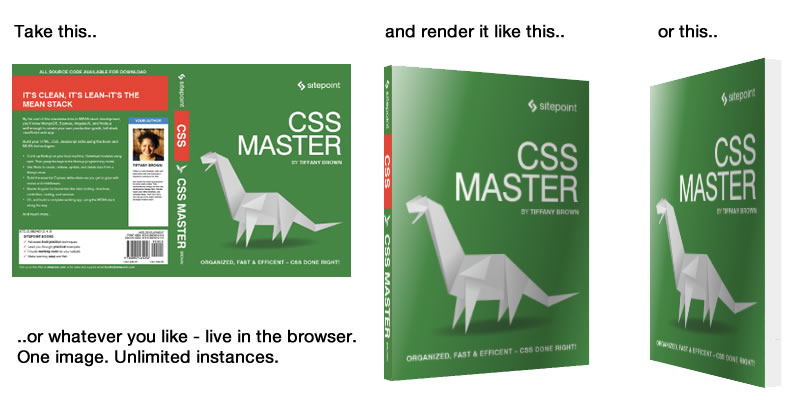
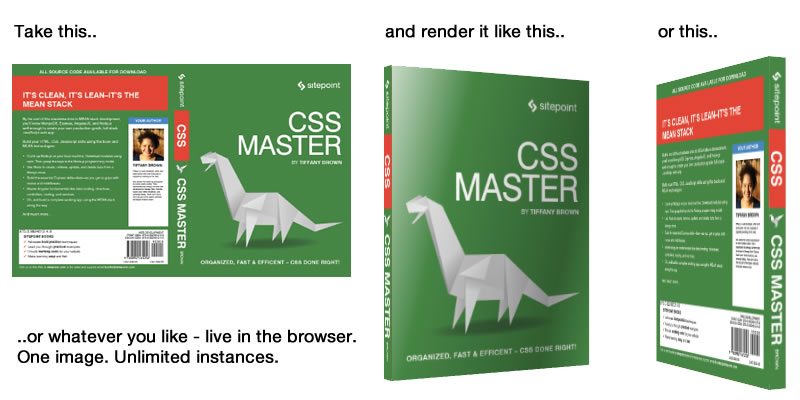
Demo updated to show the back cover.

Changed region(s): [[0.8125, 0.12, 1.0, 0.99]]

diff --git a/css/book-render.css b/css/book-render.css
@@ -1,3 +1,3 @@
-/* line 10, /Users/alexmwalker/ownCloud/Sites/view3d/view3d/sass/book-render.scss */body{font-family:sans-serif}/* line 46, /Users/alexmwalker/ownCloud/Sites/view3d/view3d/sass/book-render.scss */.book.size-small{height:150px;width:114px;perspective:525px}/* line 50, /Users/alexmwalker/ownCloud/Sites/view3d/view3d/sass/book-render.scss */.book.size-small .backcover{transform:rotateY(180deg) translateZ(9px)}/* line 53, /Users/alexmwalker/ownCloud/Sites/view3d/view3d/sass/book-render.scss */.book.size-small .backcover:before,.book.size-small .backcover:after{width:9px}/* line 59, /Users/alexmwalker/ownCloud/Sites/view3d/view3d/sass/book-render.scss */.book.size-mid{height:300px;width:228px;perspective:1050px}/* line 63, /Users/alexmwalker/ownCloud/Sites/view3d/view3d/sass/book-render.scss */.book.size-mid .backcover{transform:rotateY(180deg) translateZ(18px)}/* line 66, /Users/alexmwalker/ownCloud/Sites/view3d/view3d/sass/book-render.scss */.book.size-mid .backcover:before,.book.size-mid .backcover:after{width:18px}/* line 72, /Users/alexmwalker/ownCloud/Sites/view3d/view3d/sass/book-render.scss */.book.size-large{height:480px;width:364.8px;perspective:1680px}/* line 76, /Users/alexmwalker/ownCloud/Sites/view3d/view3d/sass/book-render.scss */.book.size-large .backcover{transform:rotateY(180deg) translateZ(28.8px)}/* line 79, /Users/alexmwalker/ownCloud/Sites/view3d/view3d/sass/book-render.scss */.book.size-large .backcover:before,.book.size-large .backcover:after{width:28.8px}/* line 85, /Users/alexmwalker/ownCloud/Sites/view3d/view3d/sass/book-render.scss */.book{margin:2em;position:relative}/* line 91, /Users/alexmwalker/ownCloud/Sites/view3d/view3d/sass/book-render.scss */figure.view3d{perspective-origin:50% 50%;float:left;outline:1px #eee dashed}/* line 98, /Users/alexmwalker/ownCloud/Sites/view3d/view3d/sass/book-render.scss */.cover{position:relative;overflow:hidden;height:100%;width:100%;z-index:1;box-shadow:0px 0px 4px rgba(0,0,0,0.15),3px 3px 4px rgba(0,0,0,0.3),6px 6px 4px rgba(0,0,0,0.1)}/* line 106, /Users/alexmwalker/ownCloud/Sites/view3d/view3d/sass/book-render.scss */.cover:after{display:block;content:'';position:absolute;top:0;left:0;height:100%;width:100%;background:linear-gradient(105deg, rgba(255,255,255,0.7) 0%, transparent 29%, rgba(0,0,0,0.3) 79%, rgba(255,255,255,0) 100%);top:0;left:0;position:relative;z-index:12}/* line 119, /Users/alexmwalker/ownCloud/Sites/view3d/view3d/sass/book-render.scss */.view3d .cover{box-shadow:none}/* line 124, /Users/alexmwalker/ownCloud/Sites/view3d/view3d/sass/book-render.scss */.cover img{float:right;height:100%}/* line 129, /Users/alexmwalker/ownCloud/Sites/view3d/view3d/sass/book-render.scss */.view3d .bookgroup{transform-style:preserve-3d;transform-origin:50% 50% 50%;transform:rotateY(0deg) rotateX(0deg);height:100%;width:100%;position:relative;transition:transform 1.5s ease-in}/* line 140, /Users/alexmwalker/ownCloud/Sites/view3d/view3d/sass/book-render.scss */.backcover{background:#f00;transform-style:preserve-3d;height:100%;width:100%;background-size:auto 100%;position:absolute;top:0px;z-index:-1;right:0px}/* line 152, /Users/alexmwalker/ownCloud/Sites/view3d/view3d/sass/book-render.scss */.backcover:before,.backcover:after{display:block;content:'';position:absolute;top:0;left:0;transform-style:preserve-3d;background:#eee;height:100%;transform:rotateY(90deg);transform-origin:0% 50%;z-index:9}/* line 163, /Users/alexmwalker/ownCloud/Sites/view3d/view3d/sass/book-render.scss */.backcover:after{transform:rotateY(90deg) translateZ(0px);left:100%;transform-origin:0% 50%;background:#ff0;background:inherit;background-position:center center}/* line 200, /Users/alexmwalker/ownCloud/Sites/view3d/view3d/sass/book-render.scss */.oclock-12 .bookgroup{transform:rotateY(0deg) rotateX(0deg)}/* line 204, /Users/alexmwalker/ownCloud/Sites/view3d/view3d/sass/book-render.scss */.oclock-6 .bookgroup{transform:rotateY(180deg) rotateX(0deg)}/* line 208, /Users/alexmwalker/ownCloud/Sites/view3d/view3d/sass/book-render.scss */.oclock-1 .bookgroup{transform:rotateY(-30deg) rotateX(0deg)}/* line 212, /Users/alexmwalker/ownCloud/Sites/view3d/view3d/sass/book-render.scss */.oclock-11 .bookgroup{transform:rotateY(30deg) rotateX(0deg)}/* line 216, /Users/alexmwalker/ownCloud/Sites/view3d/view3d/sass/book-render.scss */.oclock-2 .bookgroup{transform:rotateY(-60deg) rotateX(0deg)}/* line 220, /Users/alexmwalker/ownCloud/Sites/view3d/view3d/sass/book-render.scss */.oclock-10 .bookgroup{transform:rotateY(60deg) rotateX(0deg)}/* line 224, /Users/alexmwalker/ownCloud/Sites/view3d/view3d/sass/book-render.scss */.hover:hover .bookgroup{transform:rotateY(30deg) scale(1.15);transition:transform 1.25s ease-in;animation:spin 8s infinite linear 1.2s}@keyframes spin{0%{transform:rotateY(30deg) scale(1.15)}100%{transform:rotateY(390deg) scale(1.15)}}/* line 242, /Users/alexmwalker/ownCloud/Sites/view3d/view3d/sass/book-render.scss */table{font-size:12px}/* line 244, /Users/alexmwalker/ownCloud/Sites/view3d/view3d/sass/book-render.scss */table td{padding:1em}
+/* line 10, /Users/alexmwalker/ownCloud/Sites/view3d/view3d/sass/book-render.scss */body{font-family:sans-serif}/* line 46, /Users/alexmwalker/ownCloud/Sites/view3d/view3d/sass/book-render.scss */.book.size-small{height:150px;width:114px;perspective:525px}/* line 50, /Users/alexmwalker/ownCloud/Sites/view3d/view3d/sass/book-render.scss */.book.size-small .backcover{transform:rotateY(180deg) translateZ(9px)}/* line 53, /Users/alexmwalker/ownCloud/Sites/view3d/view3d/sass/book-render.scss */.book.size-small .backcover:before,.book.size-small .backcover:after{width:9px}/* line 59, /Users/alexmwalker/ownCloud/Sites/view3d/view3d/sass/book-render.scss */.book.size-mid{height:300px;width:228px;perspective:1050px}/* line 63, /Users/alexmwalker/ownCloud/Sites/view3d/view3d/sass/book-render.scss */.book.size-mid .backcover{transform:rotateY(180deg) translateZ(18px)}/* line 66, /Users/alexmwalker/ownCloud/Sites/view3d/view3d/sass/book-render.scss */.book.size-mid .backcover:before,.book.size-mid .backcover:after{width:18px}/* line 72, /Users/alexmwalker/ownCloud/Sites/view3d/view3d/sass/book-render.scss */.book.size-large{height:480px;width:364.8px;perspective:1680px}/* line 76, /Users/alexmwalker/ownCloud/Sites/view3d/view3d/sass/book-render.scss */.book.size-large .backcover{transform:rotateY(180deg) translateZ(28.8px)}/* line 79, /Users/alexmwalker/ownCloud/Sites/view3d/view3d/sass/book-render.scss */.book.size-large .backcover:before,.book.size-large .backcover:after{width:28.8px}/* line 85, /Users/alexmwalker/ownCloud/Sites/view3d/view3d/sass/book-render.scss */.book{margin:2em;position:relative}/* line 91, /Users/alexmwalker/ownCloud/Sites/view3d/view3d/sass/book-render.scss */figure.view3d{perspective-origin:50% 50%;float:left;outline:1px #eee dashed}/* line 98, /Users/alexmwalker/ownCloud/Sites/view3d/view3d/sass/book-render.scss */.cover{position:relative;overflow:hidden;height:100%;width:100%;z-index:1;box-shadow:0px 0px 4px rgba(0,0,0,0.15),3px 3px 4px rgba(0,0,0,0.3),6px 6px 4px rgba(0,0,0,0.1)}/* line 106, /Users/alexmwalker/ownCloud/Sites/view3d/view3d/sass/book-render.scss */.cover:after{display:block;content:'';position:absolute;top:0;left:0;height:100%;width:100%;background:linear-gradient(105deg, rgba(255,255,255,0.7) 0%, transparent 29%, rgba(0,0,0,0.3) 79%, rgba(255,255,255,0) 100%);top:0;left:0;position:relative;z-index:12}/* line 119, /Users/alexmwalker/ownCloud/Sites/view3d/view3d/sass/book-render.scss */.view3d .cover{box-shadow:none}/* line 124, /Users/alexmwalker/ownCloud/Sites/view3d/view3d/sass/book-render.scss */.cover img{float:right;height:100%}/* line 129, /Users/alexmwalker/ownCloud/Sites/view3d/view3d/sass/book-render.scss */.view3d .bookgroup{transform-style:preserve-3d;transform-origin:50% 50% 50%;transform:rotateY(0deg) rotateX(0deg);height:100%;width:100%;position:relative;transition:transform 1.5s ease-in}/* line 140, /Users/alexmwalker/ownCloud/Sites/view3d/view3d/sass/book-render.scss */.backcover{background:#f00;transform-style:preserve-3d;height:100%;width:100%;background-size:auto 100%;position:absolute;top:0px;z-index:-1;right:0px}/* line 152, /Users/alexmwalker/ownCloud/Sites/view3d/view3d/sass/book-render.scss */.backcover:before,.backcover:after{display:block;content:'';position:absolute;top:0;left:0;transform-style:preserve-3d;background:#eee;height:100%;transform:rotateY(90deg);transform-origin:0% 50%;z-index:9}/* line 163, /Users/alexmwalker/ownCloud/Sites/view3d/view3d/sass/book-render.scss */.backcover:after{transform:rotateY(90deg) translateZ(0px);left:100%;transform-origin:0% 50%;background:#ff0;background:inherit;background-position:center center}/* line 200, /Users/alexmwalker/ownCloud/Sites/view3d/view3d/sass/book-render.scss */.oclock-12 .bookgroup{transform:rotateY(0deg) rotateX(0deg)}/* line 204, /Users/alexmwalker/ownCloud/Sites/view3d/view3d/sass/book-render.scss */.oclock-6 .bookgroup{transform:rotateY(180deg) rotateX(0deg)}/* line 208, /Users/alexmwalker/ownCloud/Sites/view3d/view3d/sass/book-render.scss */.oclock-1 .bookgroup{transform:rotateY(-30deg) rotateX(0deg)}/* line 212, /Users/alexmwalker/ownCloud/Sites/view3d/view3d/sass/book-render.scss */.oclock-11 .bookgroup{transform:rotateY(30deg) rotateX(0deg)}/* line 216, /Users/alexmwalker/ownCloud/Sites/view3d/view3d/sass/book-render.scss */.oclock-2 .bookgroup{transform:rotateY(-60deg) rotateX(0deg)}/* line 220, /Users/alexmwalker/ownCloud/Sites/view3d/view3d/sass/book-render.scss */.oclock-10 .bookgroup{transform:rotateY(60deg) rotateX(0deg)}/* line 224, /Users/alexmwalker/ownCloud/Sites/view3d/view3d/sass/book-render.scss */.oclock-4 .bookgroup{transform:rotateY(120deg) rotateX(0deg)}/* line 228, /Users/alexmwalker/ownCloud/Sites/view3d/view3d/sass/book-render.scss */.oclock-5 .bookgroup{transform:rotateY(150deg) rotateX(0deg)}/* line 232, /Users/alexmwalker/ownCloud/Sites/view3d/view3d/sass/book-render.scss */.hover:hover .bookgroup{transform:rotateY(30deg) scale(1.15);transition:transform 1.25s ease-in;animation:spin 8s infinite linear 1.2s}@keyframes spin{0%{transform:rotateY(30deg) scale(1.15)}100%{transform:rotateY(390deg) scale(1.15)}}/* line 250, /Users/alexmwalker/ownCloud/Sites/view3d/view3d/sass/book-render.scss */table{font-size:12px}/* line 252, /Users/alexmwalker/ownCloud/Sites/view3d/view3d/sass/book-render.scss */table td{padding:1em}
 
 /*# sourceMappingURL=book-render.css.map */

diff --git a/sass/book-render.scss b/sass/book-render.scss
@@ -221,6 +221,14 @@ figure.view3d {
     transform: rotateY(60deg) rotateX(0deg); //default view
 }
 
+.oclock-4 .bookgroup {
+    transform: rotateY(120deg) rotateX(0deg); //default view
+}
+
+.oclock-5 .bookgroup {
+    transform: rotateY(150deg) rotateX(0deg); //default view
+}
+
 .hover:hover .bookgroup {
     transform: rotateY(30deg) scale(1.15);
     transition: transform 1.25s ease-in;

diff --git a/index.html b/index.html
@@ -25,7 +25,7 @@
         </div>
 
     </div>
-    <div class="book size-mid view3d oclock-2">
+    <div class="book size-mid view3d oclock-4">
 
         <div class="cover">
             <img src="img/cssmaster1.png" alt="Book cover: CSS Master " />
